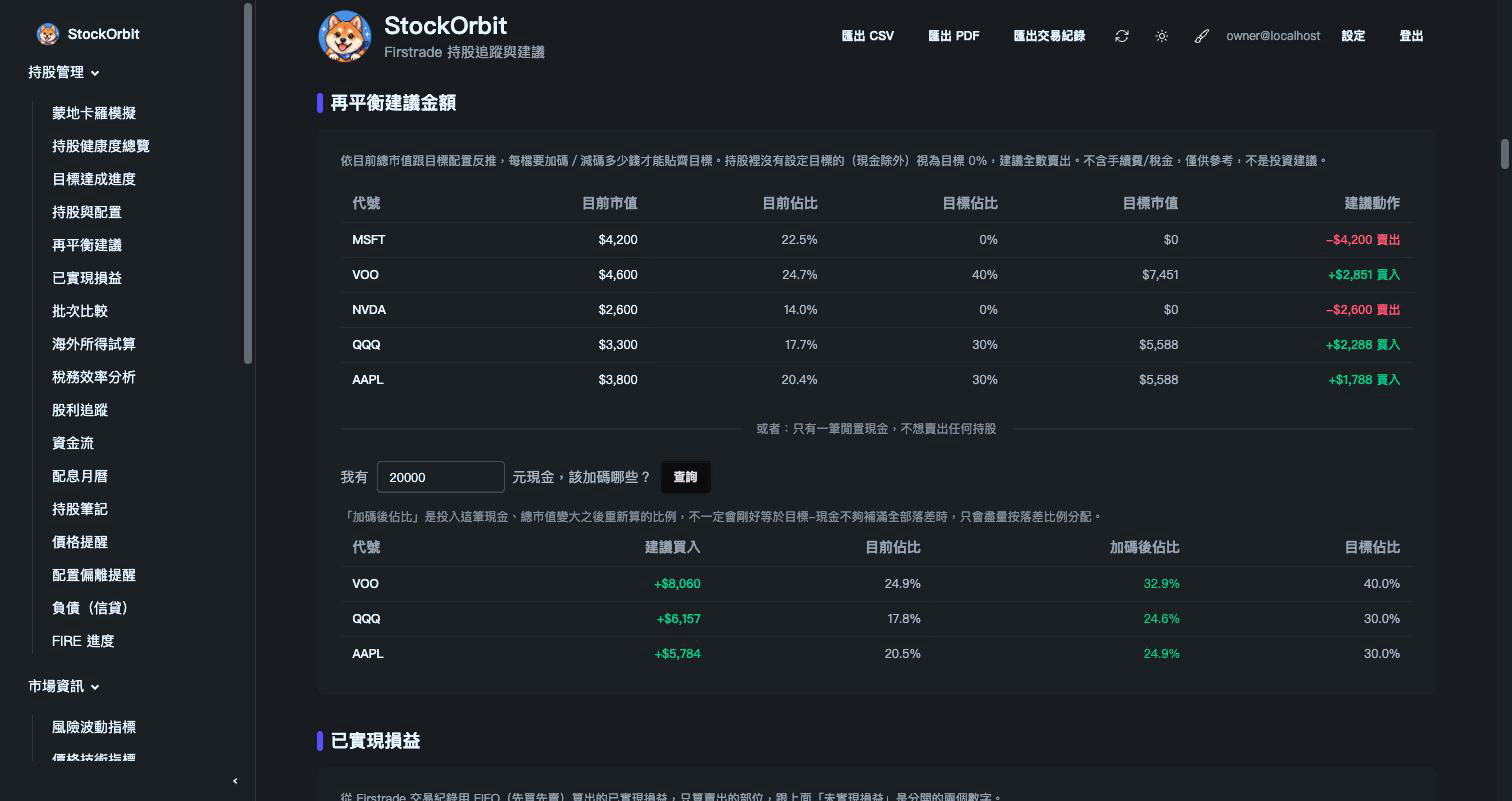
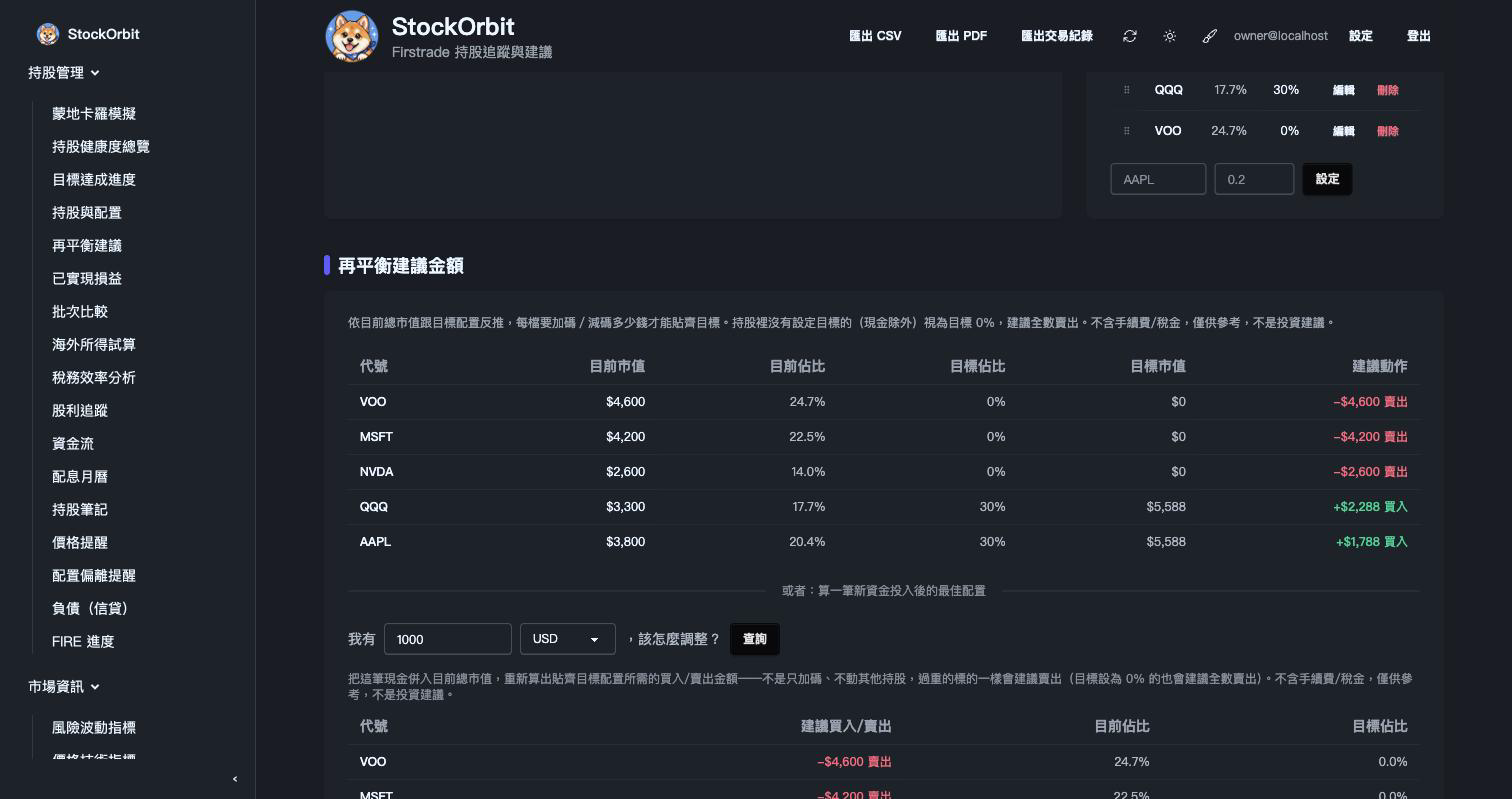
新資金再平衡改成完整買賣，不只加碼（issue #340） (#341)
使用者回報：目標設為 0% 的標的支援賣出（#338）之後，發現「只有一筆閒置
現金」查詢對其他標的還是只加碼、不會賣——即使某檔已經明顯超過目標佔比，
也只會建議加碼別的標的，達不到真正的最佳比例。

拿掉「只加碼不賣出」的限制：build_rebalance_plan() 加上 extra_cash
參數，把新資金併入總市值再算目標，跟完全不加碼時同一套邏輯——一定會
剛好落在目標佔比，不再是「盡量按落差比例分配」的部分填補。
suggest_cash_deployment() 整個檔案跟著刪掉，兩種情境現在共用同一個
函式，少一份重複邏輯要維護。

UI 拿掉了不再準確的「不想賣出任何持股」文案，跟著也拿掉了變得多餘的
「加碼後佔比」欄（現在一定等於目標佔比）。

diff --git a/app/templates/sections/rebalance.html b/app/templates/sections/rebalance.html
@@ -42,7 +42,7 @@
         </table>
       </div>
 
-      <div class="divider text-xs opacity-50">或者：只有一筆閒置現金，不想賣出任何持股</div>
+      <div class="divider text-xs opacity-50">或者：算一筆新資金投入後的最佳配置</div>
       <div class="flex items-center gap-2 flex-wrap">
         <span class="text-sm opacity-70">我有</span>
         <input id="cash-deployment-amount" type="number" min="0" step="100" placeholder="10000" class="input input-bordered input-sm w-32">
@@ -50,7 +50,7 @@
           <option value="USD">USD</option>
           <option value="TWD">TWD</option>
         </select>
-        <span class="text-sm opacity-70">，該加碼哪些？</span>
+        <span class="text-sm opacity-70">，該怎麼調整？</span>
         <button type="button" onclick="loadCashDeployment()" class="btn btn-neutral btn-sm">查詢</button>
       </div>
       <div id="cash-deployment-converted" class="text-xs opacity-50 mt-1 hidden"></div>
@@ -110,23 +110,21 @@ async function loadCashDeployment() {
     content.innerHTML = '<p class="text-sm opacity-60">還沒有設定目標配置。</p>';
     return;
   }
-  let html = '<p class="text-xs opacity-50 mb-1">「加碼後佔比」是投入這筆現金、總市值變大之後重新算的比例，不一定會剛好等於目標-現金不夠補滿全部落差時，只會盡量按落差比例分配。目標設為 0% 的持股會建議全數賣出，賣出的錢併入這筆現金一起分配給其他標的。</p>';
+  let html = '<p class="text-xs opacity-50 mb-1">把這筆現金併入目前總市值，重新算出貼齊目標配置所需的買入/賣出金額——不是只加碼、不動其他持股，過重的標的一樣會建議賣出（目標設為 0% 的也會建議全數賣出）。不含手續費/稅金，僅供參考，不是投資建議。</p>';
   html += '<table id="cash-deployment-table" class="table table-sm"><thead><tr>' +
     '<th>代號</th><th class="text-right">建議買入/賣出</th><th class="text-right">目前佔比</th>' +
-    '<th class="text-right">加碼後佔比</th><th class="text-right">目標佔比</th></tr></thead><tbody>';
+    '<th class="text-right">目標佔比</th></tr></thead><tbody>';
   for (const p of data.plan) {
-    let buyLabel = '<span class="opacity-40">-</span>';
-    if (p.buy_amount > 0.5) {
-      buyLabel = `<span class="text-success font-medium">+$${p.buy_amount.toLocaleString('en-US', {maximumFractionDigits: 0})}</span>`;
-    } else if (p.buy_amount < -0.5) {
-      buyLabel = `<span class="text-error font-medium">-$${(-p.buy_amount).toLocaleString('en-US', {maximumFractionDigits: 0})} 賣出</span>`;
+    let buyLabel = '<span class="opacity-40">已達標</span>';
+    if (p.diff > 0.5) {
+      buyLabel = `<span class="text-success font-medium">+$${p.diff.toLocaleString('en-US', {maximumFractionDigits: 0})}</span>`;
+    } else if (p.diff < -0.5) {
+      buyLabel = `<span class="text-error font-medium">-$${(-p.diff).toLocaleString('en-US', {maximumFractionDigits: 0})} 賣出</span>`;
     }
-    const newWeightClass = posNegClass(p.new_weight - p.current_weight);
     html += `<tr>
       <td class="font-medium">${escapeHtml(p.symbol)}</td>
       <td class="text-right">${buyLabel}</td>
       <td class="text-right opacity-70">${(p.current_weight * 100).toFixed(1)}%</td>
-      <td class="text-right ${newWeightClass}">${(p.new_weight * 100).toFixed(1)}%</td>
       <td class="text-right opacity-70">${(p.target_weight * 100).toFixed(1)}%</td>
     </tr>`;
   }

diff --git a/app/domain/portfolio/advice.py b/app/domain/portfolio/advice.py
@@ -92,14 +92,23 @@ def build_advice(
     return {"allocation": allocation, "total_value": total_value, "advice": notes}
 
 
-def build_rebalance_plan(snapshots: list[dict], targets: dict[str, float]) -> list[dict]:
+def build_rebalance_plan(
+    snapshots: list[dict], targets: dict[str, float], extra_cash: float = 0.0
+) -> list[dict]:
     """For every symbol that's either currently held or has a target weight
     (excluding CASH, which is funding source/destination, not a position),
     work out how many dollars to buy or sell to hit the target allocation.
     A held symbol with no target is treated as target 0% (full sell) -
     it's not part of the plan, so rebalancing it out is the correct call.
+
+    `extra_cash` folds new money (e.g. "只有一筆閒置現金" - issue #340) into
+    the total before computing targets, so the plan lands exactly on target
+    including the new cash - not just buy-only. `current_weight` still uses
+    the pre-cash total (today's actual allocation), everything else uses
+    the post-cash total.
     """
     total_value = sum(s["market_value"] for s in snapshots)
+    new_total = total_value + extra_cash
     current_value_by_symbol: dict[str, float] = defaultdict(float)
     for s in snapshots:
         if s["symbol"] != "CASH":
@@ -110,7 +119,7 @@ def build_rebalance_plan(snapshots: list[dict], targets: dict[str, float]) -> li
     for symbol in symbols:
         current_value = current_value_by_symbol.get(symbol, 0.0)
         target_weight = targets.get(symbol, 0.0)
-        target_value = target_weight * total_value
+        target_value = target_weight * new_total
         plan.append({
             "symbol": symbol,
             "current_value": current_value,

diff --git a/app/interface/http.py b/app/interface/http.py
@@ -35,8 +35,7 @@ from app.infrastructure.export import build_holdings_csv, build_transactions_csv
 from app.infrastructure.firstrade_client import FtCreds, _login, fetch_positions, fetch_transactions
 from app.infrastructure.fundamentals import fetch_fundamentals
 from app.infrastructure.institutional import fetch_institutional_data
-from app.domain.portfolio.advice import build_advice
-from app.domain.portfolio.cash_deployment import suggest_cash_deployment
+from app.domain.portfolio.advice import build_advice, build_rebalance_plan
 from app.domain.analytics.backtest import max_drawdown_details, run_backtest, run_benchmarks_only
 from app.domain.analytics.compound_curve import build_compound_curve, build_portfolio_compound_curve, fetch_annual_returns
 from app.domain.analytics.compounder_checklist import build_compounder_checklist
@@ -1234,7 +1233,7 @@ def cash_deployment(amount: float, account: str | None = None):
         return JSONResponse({"error": "還沒有持股資料，請先按「重新抓取持股」"}, status_code=400)
     if not targets:
         return JSONResponse({"error": "還沒有設定目標配置，請先在「目標配置」設定"}, status_code=400)
-    plan = suggest_cash_deployment(snapshots, targets, amount)
+    plan = build_rebalance_plan(snapshots, targets, extra_cash=amount)
     return JSONResponse({"plan": plan})
 
 

diff --git a/tests/test_advice.py b/tests/test_advice.py
@@ -86,6 +86,22 @@ def demo():
     by_symbol2 = {p["symbol"]: p for p in plan2}
     assert abs(by_symbol2["MSFT"]["diff"] - -4000) < 1e-6
 
+    # extra_cash (issue #340: "只有一筆閒置現金" should also sell overweight
+    # holdings, not just buy) folds new money into the total before hitting
+    # target - not a partial buy-only fill. snapshots = AAPL 6000/MSFT 4000
+    # (10000 total); +1000 cash -> new_total 11000, target 50/50 -> AAPL
+    # target 5500 (sell 500), MSFT target 5500 (buy 1500). Net of buys/sells
+    # is exactly the 1000 injected, and every symbol lands exactly on target.
+    plan3 = build_rebalance_plan(snapshots, targets={"AAPL": 0.5, "MSFT": 0.5}, extra_cash=1000)
+    by_symbol3 = {p["symbol"]: p for p in plan3}
+    assert abs(by_symbol3["AAPL"]["diff"] - -500) < 1e-6
+    assert abs(by_symbol3["MSFT"]["diff"] - 1500) < 1e-6
+    assert abs(sum(p["diff"] for p in plan3) - 1000) < 1e-6
+    for p in plan3:
+        assert abs((p["current_value"] + p["diff"]) / 11000 - p["target_weight"]) < 1e-9
+    # current_weight still reflects today's actual allocation (pre-cash).
+    assert abs(by_symbol3["AAPL"]["current_weight"] - 0.6) < 1e-9
+
 
 if __name__ == "__main__":
     demo()

diff --git a/CHANGELOG.md b/CHANGELOG.md
@@ -4,6 +4,10 @@
 
 摘要版功能總覽請看 [README](README.md#功能)。
 
+## 2026-10-01（新資金再平衡改成完整買賣，不只加碼）
+
+- 使用者回報：目標設為 0% 賣掉之後（見下一則 issue #338），發現這個「有新資金加碼」的再平衡查詢還是只會買、不會動其他過重的持股（issue #340）。原本 `suggest_cash_deployment()` 是刻意設計成「只加碼不賣出」的輕量版本，只把目標 0% 的標的當特例賣出；現在直接拿掉這個限制——`app/domain/portfolio/advice.py` 的 `build_rebalance_plan()` 加上 `extra_cash` 參數，把新資金併入總市值再算目標，跟完全不加碼時同一套邏輯，一定會剛好落在目標佔比（不再是「盡量按落差比例分配」的部分填補）。`suggest_cash_deployment()` 整個檔案跟著刪掉，兩種情境現在共用同一個函式。UI 拿掉了不再準確的「不想賣出任何持股」文案，跟著也拿掉了變得多餘的「加碼後佔比」欄（現在一定等於目標佔比）
+
 ## 2026-10-01（閒置現金加碼支援賣出歸零標的）
 
 - 「只有一筆閒置現金」加碼查詢：目標設為 0% 但仍持有的標的，現在會建議全數賣出，賣出的錢併入這次要分配的現金一起分配給其他標的（issue #338）。之前這個輕量版本只會買不會賣，目標歸零的標的只會顯示「-」被晾在一邊，跟上面完整版「再平衡建議金額」表格（早就支援目標 0% 全數賣出）不一致——`app/domain/portfolio/cash_deployment.py` 補上同樣的邏輯
